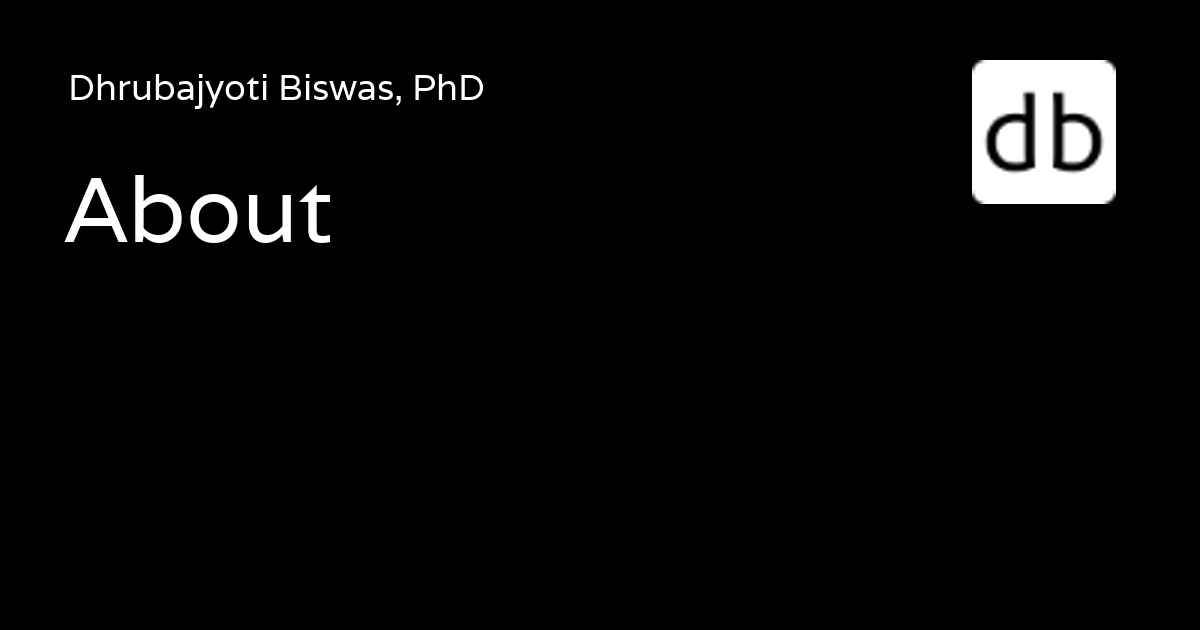
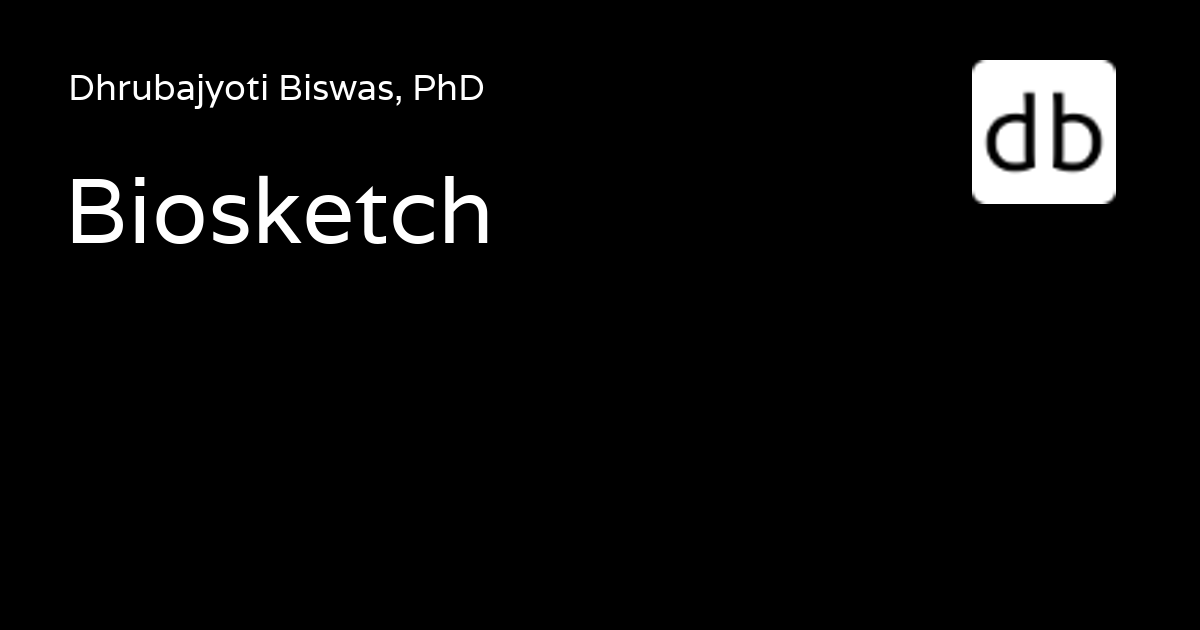
Deployed 8a52e40 with MkDocs version: 1.6.1

Changed region(s): [[0.0308, 0.2714, 0.4317, 0.3921]]

diff --git a/index.html b/index.html
@@ -96,7 +96,7 @@
     <div data-md-component="skip">
       
         
-        <a href="#about" class="md-skip">
+        <a href="#biosketch" class="md-skip">
           Skip to content
         </a>
       
@@ -131,7 +131,7 @@
         <div class="md-header__topic" data-md-component="header-topic">
           <span class="md-ellipsis">
             
-              About
+              Biosketch
             
           </span>
         </div>
@@ -200,7 +200,7 @@
   
   
   <span class="md-ellipsis">
-    About
+    Biosketch
     
   </span>
   
@@ -213,7 +213,7 @@
   
   
   <span class="md-ellipsis">
-    About
+    Biosketch
     
   </span>
   
@@ -234,15 +234,6 @@
       Table of contents
     </label>
     <ul class="md-nav__list" data-md-component="toc" data-md-scrollfix>
-      
-        <li class="md-nav__item">
-  <a href="#biosketch" class="md-nav__link">
-    <span class="md-ellipsis">
-      Biosketch
-    </span>
-  </a>
-  
-</li>
       
         <li class="md-nav__item">
   <a href="#experience" class="md-nav__link">
@@ -372,15 +363,6 @@
     <ul class="md-nav__list" data-md-component="toc" data-md-scrollfix>
       
         <li class="md-nav__item">
-  <a href="#biosketch" class="md-nav__link">
-    <span class="md-ellipsis">
-      Biosketch
-    </span>
-  </a>
-  
-</li>
-      
-        <li class="md-nav__item">
   <a href="#experience" class="md-nav__link">
     <span class="md-ellipsis">
       Experience
@@ -423,8 +405,7 @@
 
 
 
-<h1 id="about">About</h1>
-<h5 id="biosketch">Biosketch</h5>
+<h1 id="biosketch">Biosketch</h1>
 <style>
 @media screen and (max-width: 1220px) {
   td.example1 {
@@ -435,28 +416,28 @@
 
 <table>
 <tr>
-<td class="example1"><img src="img/dp.jpeg" width="700"></td>
+<td class="example1"><img src="img/dp.jpeg" width="1100"></td>
 <td>
-<p align="justify" style="font-size:13px">I pursued my B.Sc. with an honors in Physics from St. Xavier’s College Kolkata, after which I completed my M.Sc. in Physics at the Indian Institute of Technology (IIT) Madras. Subsequently, I pursued my doctoral research at IIT Madras, focusing on the theoretical and computational analysis of complex dynamical systems.</p>
-<p align="justify" style="font-size:13px">Currently, I am a postdoctoral researcher at the National Brain Research Centre (NBRC) in Gurgaon, where I work in the Cognitive Brain Dynamics Lab, investigating the dynamics of brain networks through the lens of nonlinear dynamics and computational modeling.</p>
-<p align="justify" style="font-size:13px">For detailed information, see my <a href="https://drive.google.com/file/d/1pDmqyZtTw7QiOCLzVDtpZioT9_SFtdWR/view">resume</a> [PDF].</p>
+<p align="justify" style="font-size:14px">I pursued my B.Sc. with an Honors in Physics from St. Xavier’s College Kolkata, after which I completed my M.Sc. in Physics at the Indian Institute of Technology (IIT) Madras. Subsequently, I pursued my doctoral research at IIT Madras, focusing on the theoretical and computational analysis of complex dynamical systems.</p>
+<p align="justify" style="font-size:14px">Currently, I am a postdoctoral researcher at the National Brain Research Centre (NBRC) in Gurgaon, where I work in the Cognitive Brain Dynamics Lab, investigating the dynamics of brain networks through the lens of nonlinear dynamics and computational modeling.</p>
+<p align="justify" style="font-size:14px">For detailed information, see my <a href="https://drive.google.com/file/d/1pDmqyZtTw7QiOCLzVDtpZioT9_SFtdWR/view">resume</a> [PDF].</p>
 </td>
 </tr>
 </table>
 
-<h5 id="experience">Experience</h5>
+<h4 id="experience">Experience</h4>
 <ul align="justify" style="font-size:14px">
 <li> Postdoc. (Sept. 2024 - now), <b>National Brain Research Centre Gurgaon</b>
 <li> Intern. (May - July, 2018), <b>Indian Institute of Science Education and Research Kolkata</b>
 </ul>
 
-<h5 id="academics">Academics</h5>
+<h4 id="academics">Academics</h4>
 <ul align="justify" style="font-size:14px">
 <li> <a href="/PhD/index.html">M.Sc. & Ph.D.</a> in Physics (2017 - 2024), <b>Indian Institute of Technology Madras</b>
 <li> <a href="https://drive.google.com/file/d/1kzH1EiCFbbcnvpbOTWJMMhiCC53tkvDD/view?usp=sharing">B.Sc.</a> with Hons. in Physics (2014 - 2017), <b>St. Xavier's College, University of Calcutta</b>
 </ul>
 
-<h5 id="contact">Contact</h5>
+<h4 id="contact">Contact</h4>
 <ul align="justify" style="font-size:14px">
 <li><b>Emails</b>: dhrubajyoti98 [at] gmail.com, alumni.iitm.ac.in; dhrubajyoti.ra [at] nbrc.ac.in
 <li><b>Office</b>: Room 009, MRI Building, NBRC Gurgaon, Haryana, 122052, India

diff --git a/research/index.html b/research/index.html
@@ -193,7 +193,7 @@
   
   
   <span class="md-ellipsis">
-    About
+    Biosketch
     
   </span>
   
@@ -408,12 +408,12 @@
 
 
 <h1 id="research">Research</h1>
-<h5 id="overview">Overview</h5>
+<h4 id="overview">Overview</h4>
 <p align="justify" style="font-size:14px">My research deals with the study of <b>high-dimensional dynamical systems</b>, particularly those that are modeled using the mathematical framework of <b>complex networks</b>. These systems are characterized by a large number of interacting components, and their collective dynamics often give rise to <b>emergent phenomena</b>.</p>
 <p align="justify" style="font-size:14px">Some of the central themes I explore include <b>synchronization</b> and <b>oscillation quenching</b> in dynamical systems, which describes how individual units coordinate their behavior to exhibit collective motion. These are not only of theoretical interest but also finds relevance across a wide spectrum of real-world systems. A major part of my research involves simulations, which requires the usage of <b>high-performance computing</b> APIs such as OpenMP and OpenACC on GPU-equipped clusters.</p>
 <p align="justify" style="font-size:14px">Thus, by combining <b>nonlinear dynamics</b>, <b>network theory</b>, and <b>high-performance computing</b>, my work aims to deepen our understanding of how complex interactions shape large-scale systems across disciplines.</p>
 
-<h5 id="publications">Publications</h5>
+<h4 id="publications">Publications</h4>
 <ol align="justify" style="font-size:14px">
 <li> <b>Dhrubajyoti Biswas</b> and Soumyajit Seth; "Effect of higher-order interactions on aging transitions of coupled neurons", Chaos, Solitons & Fractals 200 (2025), p. 116977. [<a href="https://doi.org/10.1016/j.chaos.2025.116977">Link</a>]
 
@@ -432,7 +432,7 @@
 <li> <b>Dhrubajyoti Biswas</b>, Soumyajit Seth, and Mita Bor; "A Study of the Dynamics of a New Piecewise Smooth Map", International Journal of Bifurcation and Chaos 30.01 (2020), p. 2050018. [<a href="https://doi.org/10.1142/s0218127420500182">Link</a>]
 </ol>
 
-<h5 id="conferences-workshops-talks-etc">Conferences, Workshops, Talks etc.</h5>
+<h4 id="conferences-workshops-talks-etc">Conferences, Workshops, Talks etc.</h4>
 <ol align="justify" style="font-size:14px">
 <li> <b>Regional Young Investigators' Meeting 2025</b>, Ashoka University, India; <em>Contribution: Poster presentation</em>. [<a href="https://indiabioscience.org/meetings/regional-young-investigators-meeting-delhi-ncr-2024-2025">Link</a>]
 <li> <b>Brain Network Dynamics Meeting 2024</b>, Ashoka University, India. [<a href="https://www.mbbslab.org/braindy-2024">Link</a>]

diff --git a/misc/index.html b/misc/index.html
@@ -191,7 +191,7 @@
   
   
   <span class="md-ellipsis">
-    About
+    Biosketch
     
   </span>
   
@@ -406,19 +406,19 @@
 
 
 <h1 id="misc">Misc.</h1>
-<h5 id="awards-grants">Awards &amp; Grants</h5>
-<ul align=justify style="font-size:14px">
+<h4 id="awards-grants">Awards &amp; Grants</h4>
+<ul align="justify" style="font-size:14px">
 <li>Travel grant (600 USD) to attend WINQ Program in Complex & Quantum Systems 2024.
 <li>Research Fellowship for PhD (2019 - 2024) & MCM Scholarship for MSc (2017 - 2019), IIT Madras.
 </ul>
 
-<h5 id="service">Service</h5>
-<ul align=justify style="font-size:14px">
+<h4 id="service">Service</h4>
+<ul align="justify" style="font-size:14px">
 <li> Reviewer for <em>Chaos: An Interdisciplinary Journal of Nonlinear Science</em>, <em>NODYCON 2023 Conference Proceedings</em>.
 </ul>
 
-<h5 id="professional-affiliations">Professional Affiliations</h5>
-<ul align=justify style="font-size:14px">
+<h4 id="professional-affiliations">Professional Affiliations</h4>
+<ul align="justify" style="font-size:14px">
 <li> Member (January 2025 - now), Institute of Physics, UK
 </ul>
 

diff --git a/teaching/index.html b/teaching/index.html
@@ -193,7 +193,7 @@
   
   
   <span class="md-ellipsis">
-    About
+    Biosketch
     
   </span>
   
@@ -390,12 +390,12 @@
 
 
 <h1 id="teaching">Teaching</h1>
-<h5 id="at-iit-madras">At IIT Madras</h5>
-<p style="font-size:14px">
+<h4 id="at-iit-madras">At IIT Madras</h4>
+<p align="justify" style="font-size:14px">
 Teaching Assistant for PH1010-Physics I, PH1030-Physics Laboratory I, and PH5500-Dynamical Systems.
 </p>
 
-<h5 id="others">Others</h5>
+<h4 id="others">Others</h4>
 <ul align="justify" style="font-size:14px">
 <li> Instructor for NSM Course on "Scientific Computing on GPUs with OpenACC"; Nov. 4 - 25, 2023. [<a href="http://www.cse.iitm.ac.in/~rupesh/events/openacc23/">Link</a>] </li>
 </ul>

diff --git a/404.html b/404.html
@@ -156,7 +156,7 @@
   
   
   <span class="md-ellipsis">
-    About
+    Biosketch
     
   </span>
   

diff --git a/PhD/index.html b/PhD/index.html
@@ -189,7 +189,7 @@
   
   
   <span class="md-ellipsis">
-    About
+    Biosketch
     
   </span>
   
